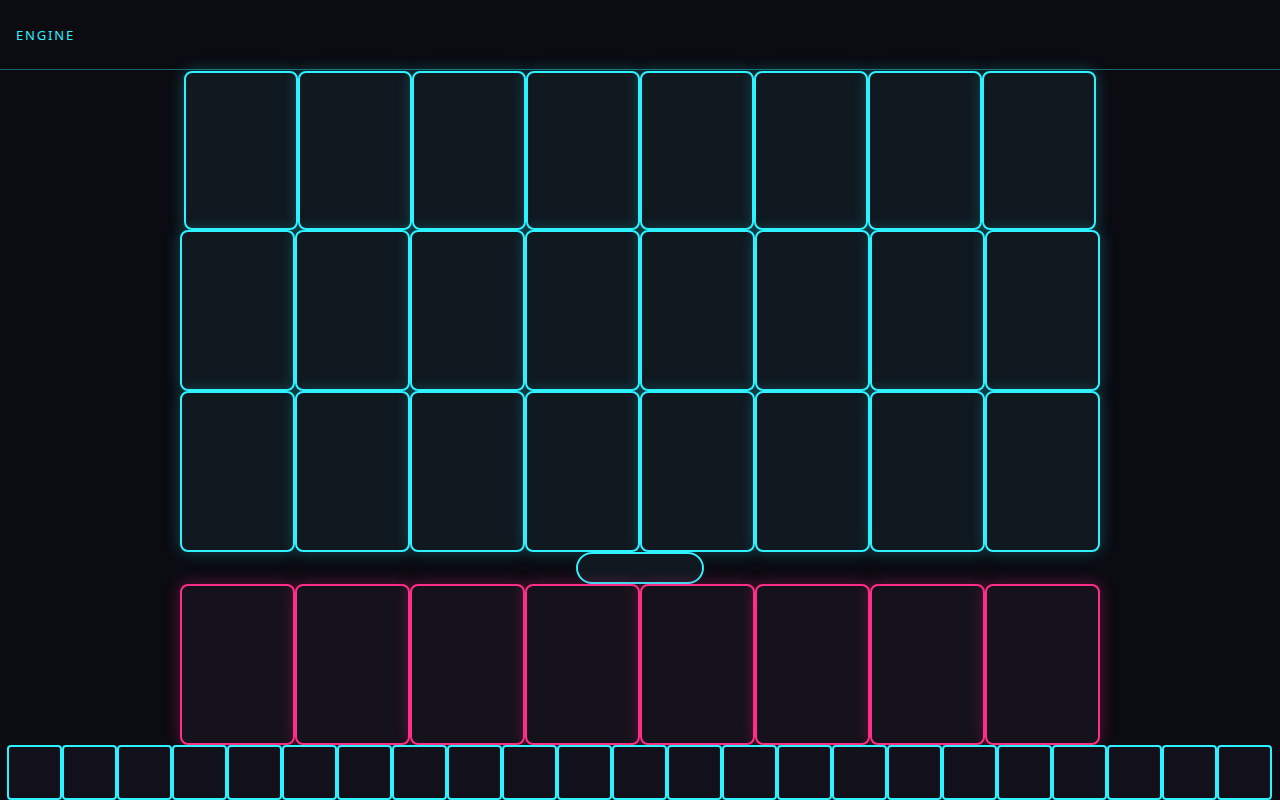
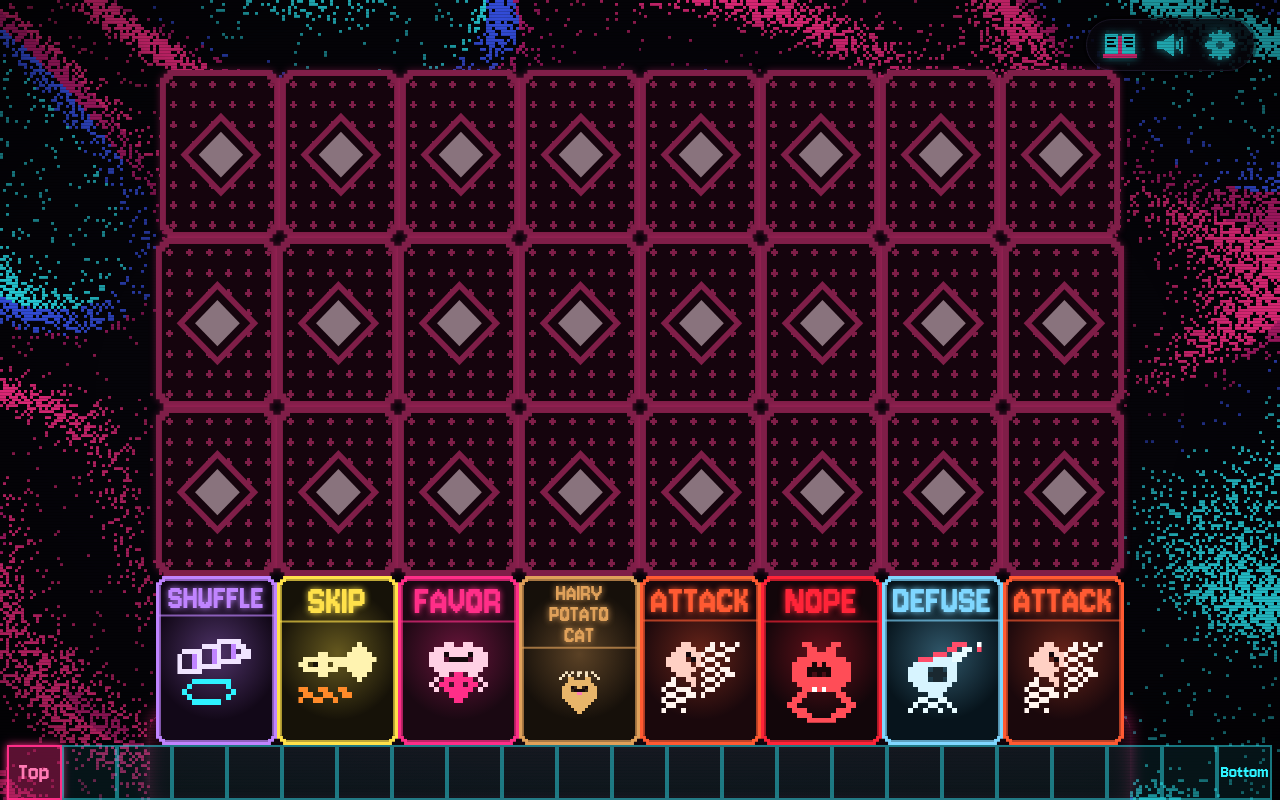
Show the real cards in the placeTable frames.
The after shots are the same scenes as the before shots, with the live cards, labels, badges, and buttons in the engine frames. The spec lists every change a player would see.

diff --git a/docs/layout-rearchitecture.md b/docs/layout-rearchitecture.md
@@ -12,7 +12,7 @@ Real tables at 360×640, 390×844, 1280×800, and 1440×900 are already driven b
 2. Blackjack drops the fan for a straight row. The before/after shots in this PR are that look. The game still fans until its own migration PR.
 3. The minimum item size is 32px. A row that cannot fit at that floor wraps onto another line. It does not clip, and it does not shrink to 15px. One global rule. No per-game input.
 4. Buttons and the score get a smaller band than card rows. One global rule. No per-game knob.
-5. Nothing merges until Gal reviews the build. The shots below are the tables on `main` and this engine, at 390×844 and 1280×800.
+5. Nothing merges until Gal reviews the build. The shots below are the tables on `main` and this engine, at 390×844 and 1280×800. The after shot is the same scene, with the real cards, labels, badges, and buttons in the frames `placeTable` returns.
 
 The duplicate-PR note and the wallet refactor are not part of this work. A face-down local hand stays the one-line note under [Not a repeated class](#not-a-repeated-class).
 
@@ -263,13 +263,44 @@ Subtract the placer. Do not add a seventh one beside it.
 
 ## Before and after
 
-The before shots are the games on this branch's `main`, which is `c86bbbd`. The after shots are `placeTable` for the same counts, drawn by the prototype. The games are not edited.
+The before shot is the table on this branch's `main`, `c86bbbd`. The after shot is that same scene. The real cards, labels, badges, and buttons are moved into the frames `placeTable` returns. The games are not edited.
 
-Blackjack, both sizes: the player fan becomes a straight row. The dealer row is a straight row too.
+Chrome is the band the table already reserved. Phone tables pass 58px. Exploding Kittens and Flip 7 at 1280×800 pass 70px. Blackjack's desktop bar is 84px, so that after shot uses 84.
 
-Exploding Kittens at 390×844: the 23-slot strip wraps to two lines of 32×32 and stays inside the screen. At 1280×800 the 23 slots stay one line at 55×55. The hand does not scroll.
+### Blackjack
 
-Flip 7, both sizes: the phone 0.8 scale and the desktop 0.56 scale are not applied. The number row is one straight line sized from the viewport.
+Six-card player hand, dealer up, Hit / Stand / Double / Split.
+
+- The six-card fan opens into a straight row of separate cards.
+- The dealer's two cards become a straight pair. On the phone each card is 195×273 and the pair fills the width. On 1280×800 the pair is 171×239 and sits centered, because a full-width pair is taller than the screen.
+- The hand total, 10/20, leaves the side of the fan and sits in its own band between the dealer and the player: 180×45 on the phone, 476×119 on 1280×800.
+- The dealer's own total leaves the side of the dealer cards.
+- On the phone, Hit, Stand, Double, and Split leave the two-by-two grid and sit in one row of 90×45 buttons.
+- On 1280×800 those four buttons stay in one row and become 238×119, half the height of the cards.
+- The $25 chip leaves the open felt. The dealer row and the hand stack occupy that space.
+
+### Exploding Kittens
+
+Defuse: about eight cards in hand, the 23 insert slots, and the action those slots are.
+
+- Each opponent's overlapping face-down fan becomes a straight row where every card is fully visible: 48×67 on the phone, about 121×169 on 1280×800. The seat name and the difficulty pips leave the row.
+- The eight-card hand becomes a straight row of that same size. On the phone that is 48×67 in place of the fitted 35×47 strip. The hand does not scroll.
+- On the phone the 23 insert slots wrap onto two lines of 32×32. Top stays the pink end button. Bottom sits on the second line.
+- On 1280×800 those 23 slots stay one line of 55×55 across the width.
+- On the phone the draw pile and the exploding kitten stay in the gap above the stack. On 1280×800 the card rows fill from under the HUD and cover both.
+- The line "Bury a drawn kitten anywhere in the pile." leaves the hand.
+
+### Flip 7
+
+Number row, modifier row, two opponent rows, the score, Hit and Stay.
+
+- Each opponent's three cards leave the small tray and become a full straight row. On the phone each card is 130×182, so the two opponents fill the top of the screen. The total and the +33 status leave the end of the row.
+- The modifier row, +4, ×2, and +10, is the same size as a three-card opponent row, larger than the six number cards.
+- The number row is one straight line at the width's card size: 65×91 on the phone, 97×135 on 1280×800, in place of the scaled 0.8 and 0.56 strips.
+- The seven progress marks, about 15×8 today, become squares: 55×55 on the phone and 97×97 on 1280×800. Six are lit, so they touch and read as a pink band, with one empty square at the end.
+- The round score, 60, leaves the middle of the hand and sits in its own shorter band: 128×32 on the phone, 192×48 on 1280×800.
+- Hit and Stay become a shorter pair. On the phone they are 64×32, because the progress squares are the shortest card and a button stays at least 32px. On 1280×800 they are 96×48.
+- The draw pile leaves the center. The rows fill that space.
 
 | | 390×844 before | 390×844 after | 1280×800 before | 1280×800 after |
 | --- | --- | --- | --- | --- |

diff --git a/docs/decisions.md b/docs/decisions.md
@@ -644,3 +644,7 @@ Migration waits until the open room PRs merge, and until Gal reviews this build.
 Adopted. Not pending. Not merged.
 
 One `placeTable` places every table, solo and multiplayer, every game. Blackjack's fan becomes a straight row when that game migrates. The screenshots in `docs/layout-rearchitecture.md` are the look. The game still fans. The minimum item size is 32px, one global rule, with no per-game input. A row that cannot fit at that floor wraps onto another line and still does not clip. At 360×640 the 23-slot row is three lines of 45×45, right edge 360. At 390×844 it is two lines of 32×32, right edge 387. At 1280×800 it is one line of 55×55, right edge 1272. At 1440×900 it is one line of 62×62, right edge 1433. A 15×15 slot inside the viewport fails the audit. Buttons and the score take a shorter band than the card rows: at most half the shortest card item, and never under 32px. On the long table that is a 64×32 button and a 128×32 score. The duplicate-PR bot and the wallet refactor are not part of this work. A face-down local hand stays the one-line type note in the spec. The unit input hash includes `prototypes`, so a change to this engine re-runs those tests instead of reusing a pass that never executed them.
+
+## After shots are the real widgets (Platform, 2026-10-19)
+
+The after shots in `docs/layout-rearchitecture.md` are the same scenes as the before shots. The real cards, labels, badges, and buttons sit in the frames `placeTable` returns. The wireframe boxes are gone. The list under Before and after is every change a player would see. The games are still not migrated. Nothing merges.
